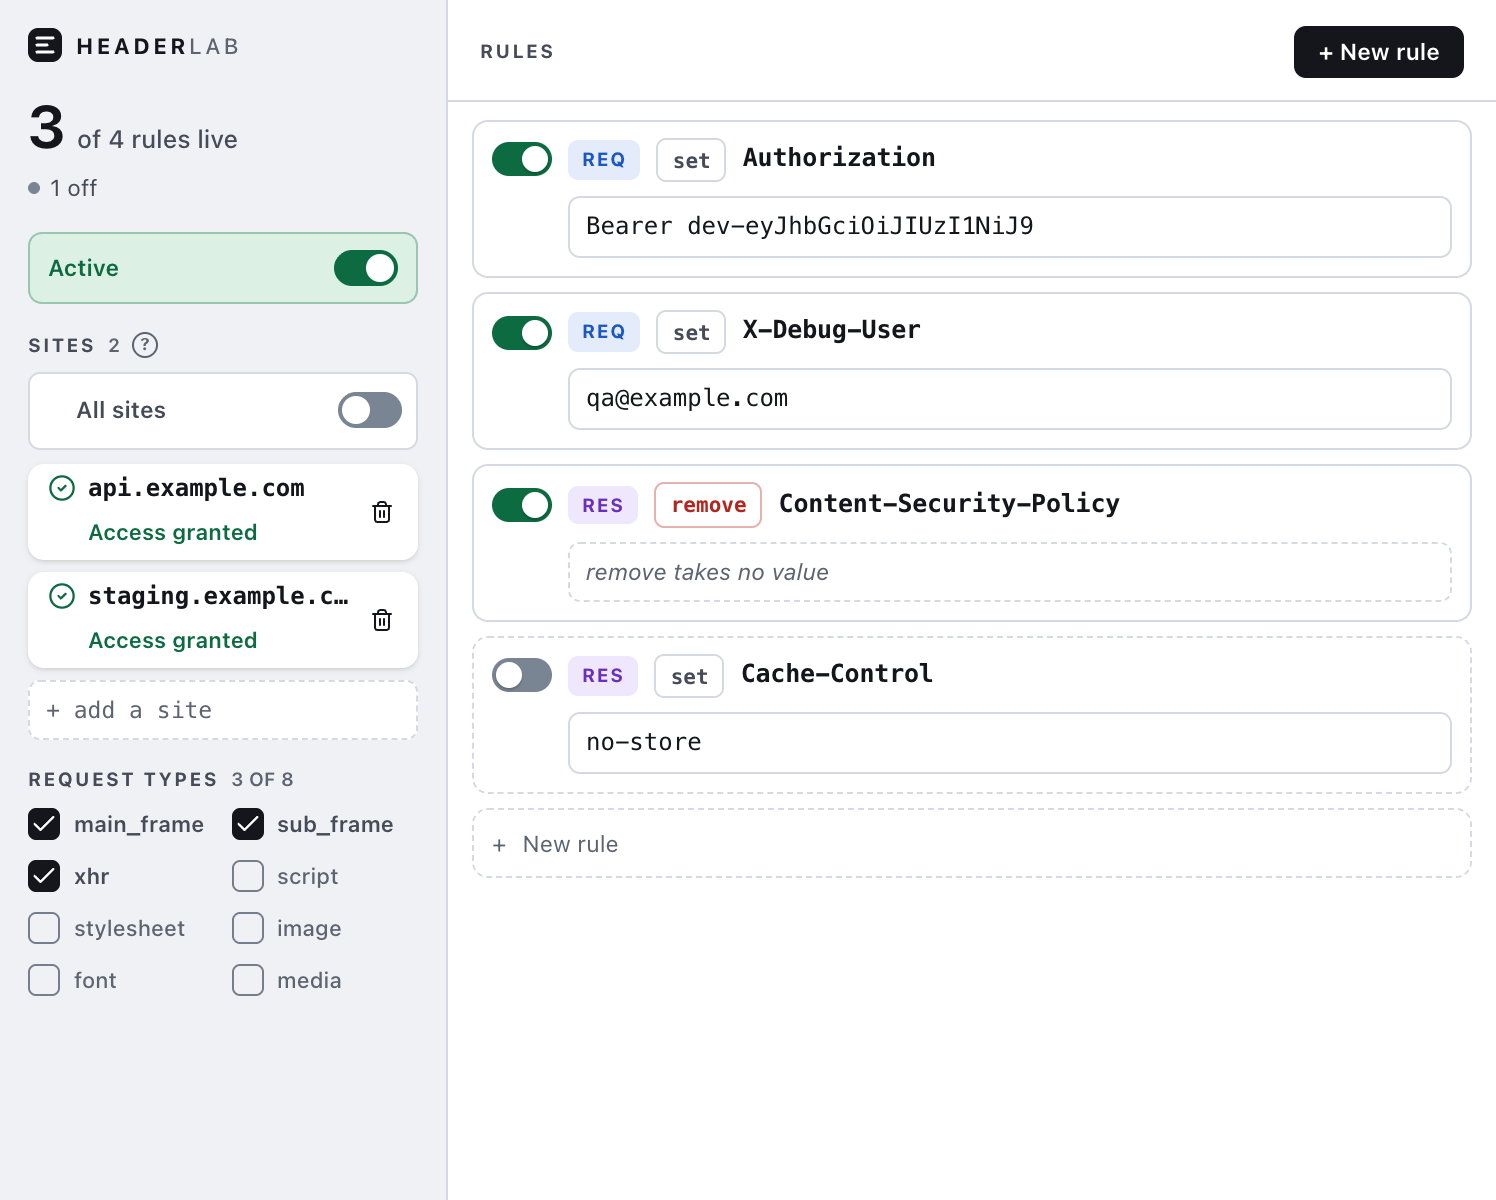
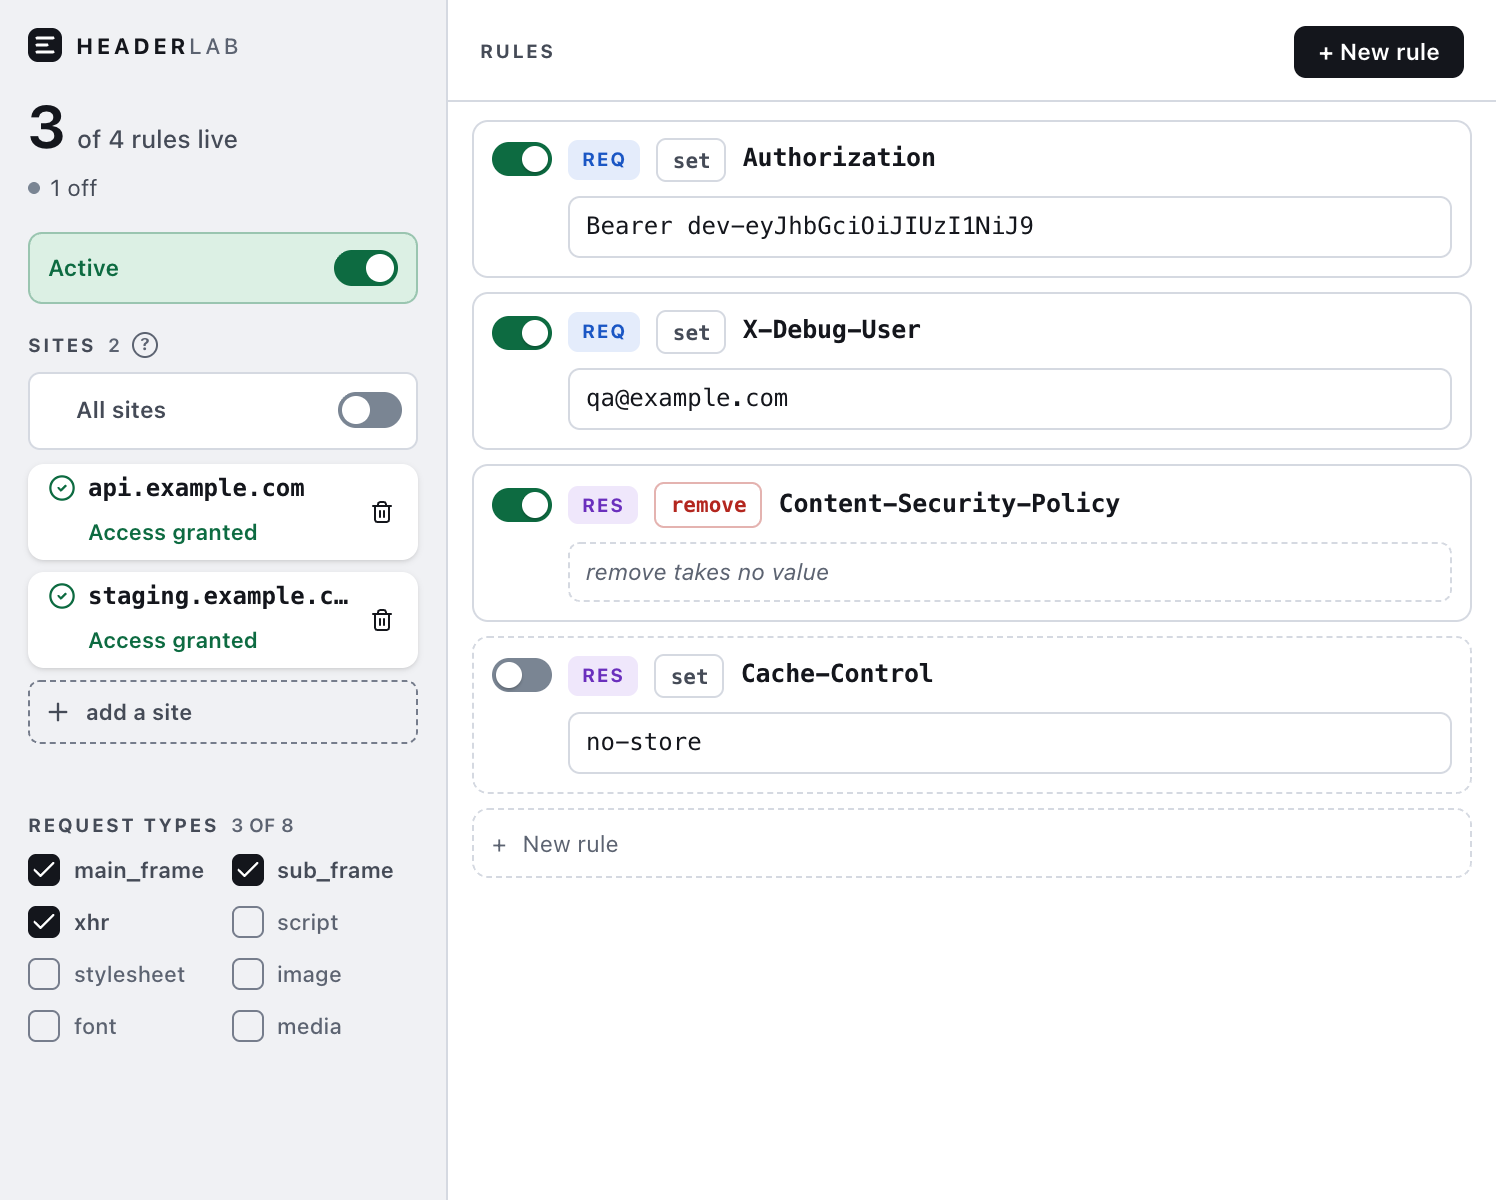
refactor: 사이트 추가 필드를 shadcn Input 과 lucide Plus 로 옮긴다

Changed region(s): [[0.0, 0.6167, 0.2767, 0.8633], [0.0307, 0.5858, 0.1537, 0.6475]]

diff --git a/components/AddSiteField.tsx b/components/AddSiteField.tsx
@@ -1,4 +1,6 @@
+import { Plus } from 'lucide-react';
 import { useState } from 'react';
+import { Input } from '@/components/ui/input';
 
 /**
  * What happened to an entry the field handed over.
@@ -54,33 +56,63 @@ export function AddSiteField({ onAdd }: AddSiteFieldProps) {
   };
 
   return (
-    <>
-      <input
-        aria-label="Add a site"
-        className="hl-addfield"
-        data-testid="add-field"
-        placeholder="+ add a site"
-        value={draft}
-        onChange={(e) => {
-          setDraft(e.target.value);
-          // The complaint is about the text as it stands; editing it makes the
-          // complaint stale.
-          setAlreadyThere(null);
-        }}
-        onBlur={add}
-        onKeyDown={(e) => {
-          if (e.key === 'Enter') add();
-          if (e.key === 'Escape') {
-            setDraft('');
+    // Two flex items, not a Fragment: `.hl-railsec` (the sites section) is a
+    // flex column that gaps its direct children, so the field and the note
+    // used to get that spacing for free as siblings. Wrapping them costs
+    // nothing as long as this div reproduces the same gap itself — `gap-1.5`
+    // below is that reproduction, not a new number.
+    <div className="flex flex-col gap-1.5">
+      {/* The dashed edge is the input's own border, not a decoration wrapped
+          around a plain one. `data-testid="add-field"` has to sit on this
+          element because the e2e layout guard measures *this* box — an outer
+          div carrying the border while the input sat inside it, padded
+          smaller, would measure a rectangle the user never sees as "the
+          control". The icon is the one piece that cannot live on the input
+          itself, so it is positioned over it from a `relative` wrapper that
+          adds no border, padding or margin of its own — it does not change
+          what the input's own rect is. */}
+      <div className="relative">
+        <Plus
+          aria-hidden="true"
+          className="pointer-events-none absolute top-1/2 left-2 size-3.5 -translate-y-1/2 text-foreground-2"
+        />
+        <Input
+          aria-label="Add a site"
+          data-testid="add-field"
+          placeholder="add a site"
+          value={draft}
+          onChange={(e) => {
+            setDraft(e.target.value);
+            // The complaint is about the text as it stands; editing it makes the
+            // complaint stale.
             setAlreadyThere(null);
-          }
-        }}
-      />
-      {alreadyThere !== null && (
-        <p className="hl-fieldnote" data-testid="add-site-note">
-          <b>{alreadyThere}</b> is already in the list.
-        </p>
-      )}
-    </>
+          }}
+          onBlur={add}
+          onKeyDown={(e) => {
+            if (e.key === 'Enter') add();
+            if (e.key === 'Escape') {
+              setDraft('');
+              setAlreadyThere(null);
+            }
+          }}
+          className="rounded-md border-dashed border-boundary bg-transparent pr-2.5 pl-7 font-mono text-[12px] placeholder:font-sans placeholder:text-[11px] placeholder:font-semibold placeholder:text-foreground-2 dark:bg-transparent"
+        />
+      </div>
+      {/* Reserved, not created: the wrapper is always here at its one-line
+          height, and only the paragraph inside it — the thing the tests key
+          on — comes and goes. A duplicate complaint appearing must not push
+          "Request types" down the rail any more than a Grant button may push
+          the row under it (CLAUDE.md, Interface). */}
+      <div className="min-h-[15px] px-px">
+        {alreadyThere !== null && (
+          <p
+            className="font-sans text-[10.5px] leading-[1.4] font-normal text-pending [overflow-wrap:anywhere]"
+            data-testid="add-site-note"
+          >
+            <b className="font-mono font-semibold">{alreadyThere}</b> is already in the list.
+          </p>
+        )}
+      </div>
+    </div>
   );
 }

diff --git a/entrypoints/popup/style.css b/entrypoints/popup/style.css
@@ -589,29 +589,9 @@ body {
 
 /* The site row itself (`.te-row`/`.te-l1`/`.te-l2` in the mockup) is a shadcn
    Button + lucide icons composed straight in SiteRow.tsx now — no `.hl-*`
-   class of its own left to hold. */
-
-.hl-addfield {
-    display: block;
-    width: 100%;
-    background: var(--background);
-    border: 1px dashed var(--rail-border);
-    border-radius: 6px;
-    padding: 7px 8px;
-    font: 400 11.5px/1.25 var(--font-mono);
-    color: var(--foreground);
-}
-
-.hl-addfield::placeholder {
-    color: var(--muted-foreground);
-}
-
-.hl-addfield:focus {
-    border-style: solid;
-    border-color: var(--ring);
-    outline: none;
-    box-shadow: 0 0 0 3px color-mix(in srgb, var(--ring) 16%, transparent);
-}
+   class of its own left to hold. The dashed slot below it (`.te-slot--site`)
+   is the same story: a shadcn Input, a lucide `Plus`, and `border-boundary`
+   composed straight in AddSiteField.tsx. */
 
 /* ---- the `?` and its bubble ---- */
 
@@ -695,25 +675,15 @@ body {
     display: block;
 }
 
-.hl-fieldnote {
-    margin: 3px 1px 0;
-    font: 400 10.5px/1.4 var(--font-sans);
-    color: var(--pending);
-    overflow-wrap: anywhere;
-}
-
-.hl-fieldnote b {
-    font: 600 10.5px/1.4 var(--font-mono);
-}
-
 /* `.hl-fieldnote-calm` used to sit here, for the "Not in use while All sites is
    on" paragraph above the site list. That sentence is on each idle row's own
-   reserved line now (`.hl-needsay`), where saying it costs no movement — the
-   paragraph appeared and vanished with the mode and pushed the list 23.7px each
-   way. The rule is gone because its only subject is; the reasoning it carried
-   is not: a state that is behaving exactly as asked must not borrow the amber
-   that means "something needs you", which is why `.hl-needsay` is
-   `--muted-foreground` and `.hl-fieldnote` is still `--pending`. */
+   reserved line now (SiteRow's `text-muted-foreground` second line), where
+   saying it costs no movement — the paragraph appeared and vanished with the
+   mode and pushed the list 23.7px each way. The rule is gone because its only
+   subject is; the reasoning it carried is not: a state that is behaving
+   exactly as asked must not borrow the amber that means "something needs
+   you", which is why that idle line is `text-muted-foreground` and the
+   duplicate-site note in AddSiteField.tsx is still `text-pending`. */
 
 /* ---- a whole-screen note, parked against its cause ---- */
 /* A neutral card with a coloured edge, never a coloured block. A pending site

diff --git a/tests/unit/ScopeRail.test.tsx b/tests/unit/ScopeRail.test.tsx
@@ -621,6 +621,14 @@ describe('adding a site', () => {
     await userEvent.type(field(), '   {Enter}');
     expect(onAddDomain).not.toHaveBeenCalled();
   });
+
+  it('추가 슬롯의 경계는 대비가 보장된 토큰을 쓴다', () => {
+    // The dashed edge is the only thing telling this control apart from
+    // plain text — Task 1's 3:1 guard is on `--boundary` itself, so this only
+    // has to confirm the slot actually reaches for that token.
+    renderRail();
+    expect(screen.getByTestId('add-field').className).toContain('border-boundary');
+  });
 });
 
 describe('request types', () => {
